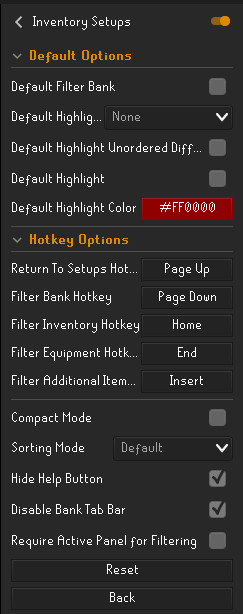
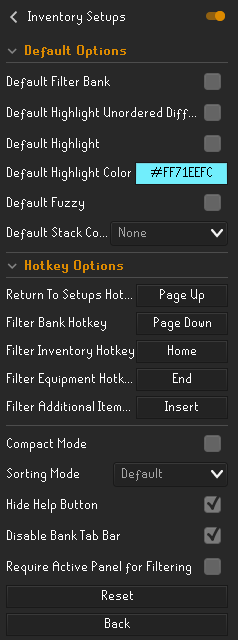
Update readme and gifs

diff --git a/README.md b/README.md
@@ -109,11 +109,14 @@ Enabling this will cause a slot to become highlighted if the stack size of the i
 
 ![Stack Difference](readme_images_and_gifs/normal_stack_difference.gif)
 
-Greater than or less than stack difference can also be selected. These highlight if the item stack in the inventory is greater than or less than the amount in the setup respectively.
+Greater than or less than stack difference can also be selected. These highlight if the item stack in the inventory is greater than or less than the amount in the setup respectively. This can be useful if you want a reminder that a stack is too low or too high.
 
 ![Stack Difference Less Than](readme_images_and_gifs/less_than_stack_difference.gif)
 
-Note that you must have base highlighting enabled in order to use this feature.
+Note that you must have base highlighting enabled in order to use this feature. There is a configuration option to set the default stack compare type for each slot when creating new setups.
+
+**NOTE:** Previously, stack differences was configured per inventory setup. It is now per item slot. This means you will need to update your setups.
+
 
 ##### Fuzzy Difference
 
@@ -121,7 +124,7 @@ Normally, Inventory Setups requires items to be **exactly** the same as those in
 
 It is possible to configure Inventory Setups to fix this issue using the "fuzzy" difference indicator. You can do this by right clicking any slot in the inventory or equipment panels, and selecting "Toggle Fuzzy". A "*" will appear in the top right corner of the slot if it is marked as fuzzy. The fuzzy indicator will make it so "similar" items are treated as equal for highlighting and filtering purposes.
 
-![Fuzzy Difference Highlight](readme_images_and_gifs/fuzzy_difference_hightlighting.gif)
+![Fuzzy Difference Highlight](readme_images_and_gifs/fuzzy_difference_highlighting.gif)
 
 As you can see, there are different types of items that the "fuzzy" indicator can be used on. Jewellery with different charges, degradable items like Barrows, and potions with different doses are a few examples.
 
@@ -129,7 +132,7 @@ The fuzzy indicator will also impact bank filtering.
 
 ![Fuzzy Difference Filtering](readme_images_and_gifs/fuzzy_filtering.gif)
 
-Note that you must have base highlighting enabled in order to use this feature.
+There is a configuration option to set all slots to fuzzy when creating new setups.
 
 **NOTE:** Fuzzy filtering replaced the previous system of variation differences. Previously through variation differences, all items were considered "fuzzy" by default. This is the **opposite** of the fuzzy filter. 
 
@@ -149,7 +152,7 @@ You can add additional filtered items to setups. These are items that will show 
 * The item will now show in the bank filter and in the "Additional Filtered Items" section
 * You can remove an item from this list by right clicking and selecting "Remove Item from Slot"
 
-You can also add or update items by using the search option.
+You can also add or update items by using the search option. The fuzzy indicator can also be added to additional filtered items.
 
 ![Additional Filtered Items](readme_images_and_gifs/additional_items_filter.gif)
 
@@ -170,10 +173,12 @@ In the settings of Inventory Setups, you can change default setup options, key b
 ![Configuration Settings](readme_images_and_gifs/config_settings.png)
 
 * **Default Filter Bank** - Enabling this will make it so all newly created setups will have bank filtering enabled
-* **Default Highlight** Stack Difference - The default stack difference option for all newly created setups
-* **Default Highlight** Unordered Difference - Enabling this will make it so all newly created setups will have unordered highlighting enabled
+* **Default Highlight Stack Difference** - The default stack difference option for all newly created setups
+* **Default Highlight Unordered Difference** - Enabling this will make it so all newly created setups will have unordered highlighting enabled
 * **Default Highlight** - Enabling this will make it so all newly created setups will have highlighting enabled
 * **Default Highlight Color** - The default highlighting color for newly created setups
+* **Default Fuzzy** - Enabling this will make all slots fuzzy for newly created setups
+* **Default Stack Compare** - The default stack comparison type for all slots in newly created setups
 
 * **Return To Setups Hotkey** - Pressing this key will exit the current setup and return to the overview panel where all setups are shown
 * **Filter Bank Hotkey** - Pressing this will cause the bank to filter if a setup is selected and filtering is enabled for that setup. This is useful if you canceled the filter while banking and want to quickly refilter
